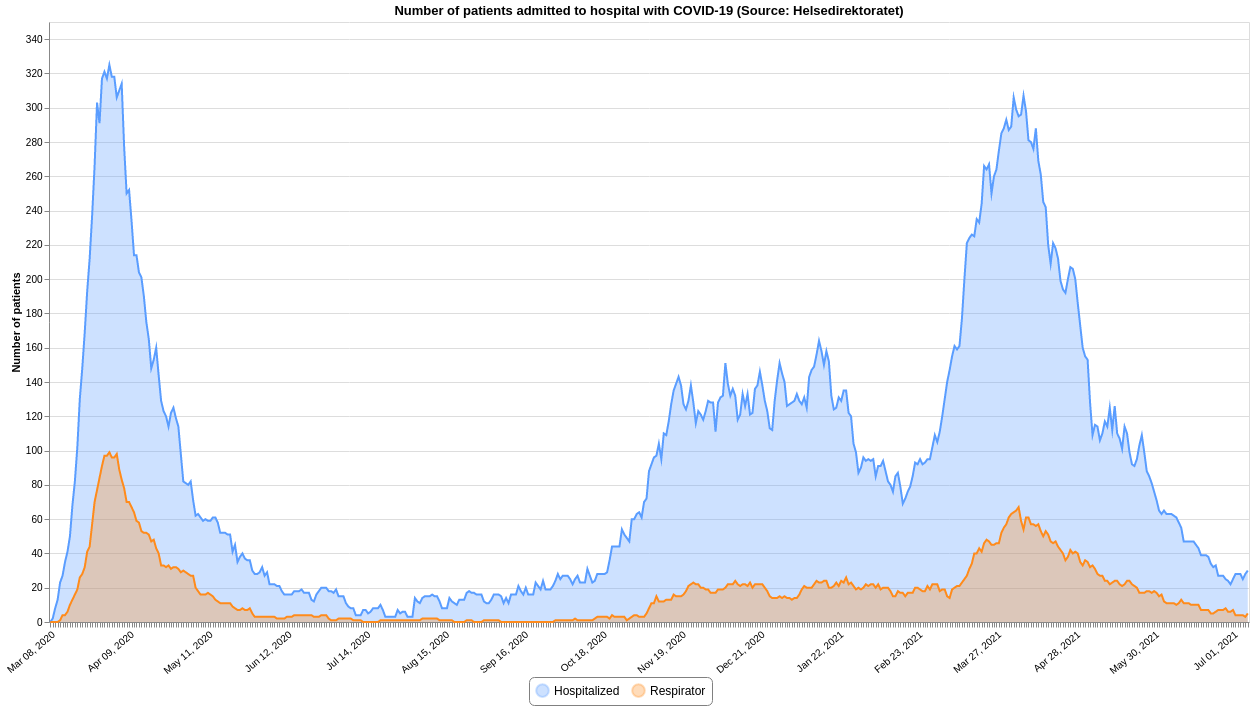
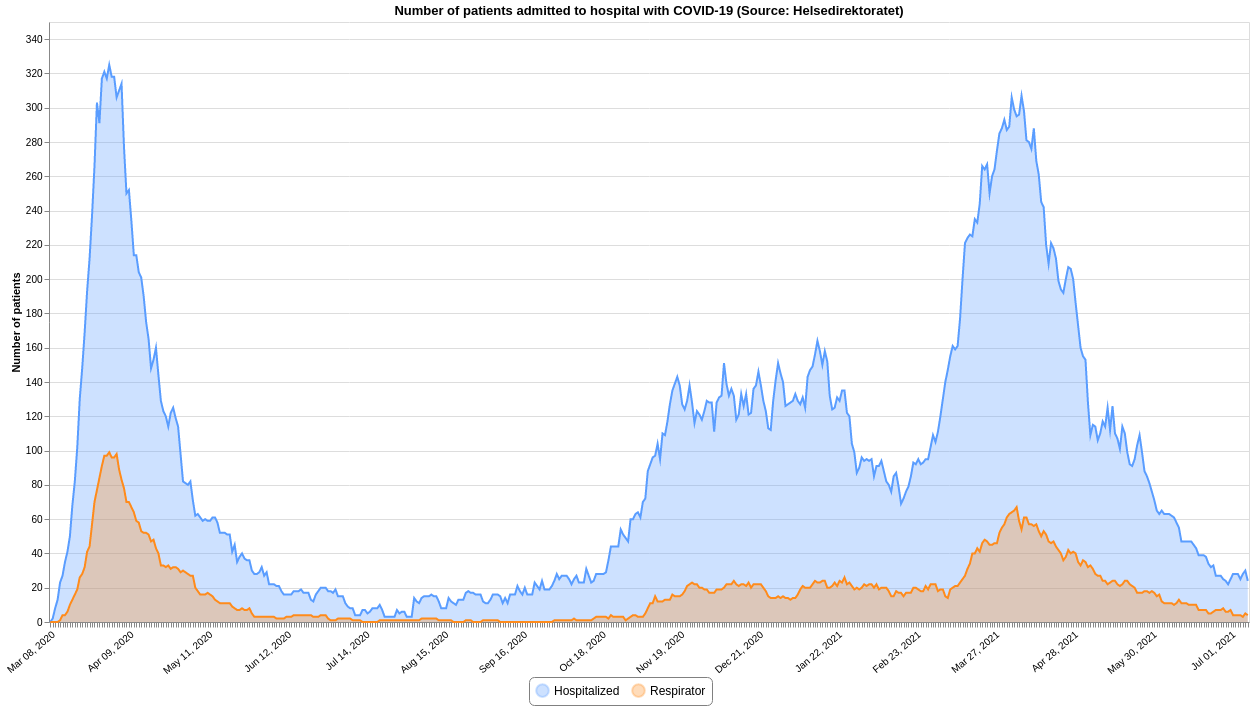
Updated 2021-07-08 13:11

diff --git a/README.md b/README.md
@@ -12,7 +12,7 @@ This repository contains datasets of daily time-series data related to COVID-19 
 | :--- | :--- | :--- | :--- | :--- |
 |[Confirmed](#confirmedcsv)|FHI / MSIS|2021-07-08 00:10:47+02:00|[<center>csv</center>](https://raw.githubusercontent.com/frefrik/covid19norge-data/main/data/confirmed.csv)|[<center>preview</center>](data/confirmed.csv)|
 |[Dead](#deadcsv)|FHI|2021-07-07 13:20:59+02:00|[<center>csv</center>](https://raw.githubusercontent.com/frefrik/covid19norge-data/main/data/dead.csv)|[<center>preview</center>](data/dead.csv)|
-|[Hospitalized](#hospitalizedcsv)|Helsedirektoratet|2021-07-07 12:50:48+02:00|[<center>csv</center>](https://raw.githubusercontent.com/frefrik/covid19norge-data/main/data/hospitalized.csv)|[<center>preview</center>](data/hospitalized.csv)|
+|[Hospitalized](#hospitalizedcsv)|Helsedirektoratet|2021-07-08 13:10:47+02:00|[<center>csv</center>](https://raw.githubusercontent.com/frefrik/covid19norge-data/main/data/hospitalized.csv)|[<center>preview</center>](data/hospitalized.csv)|
 |[Tested](#testedcsv)|FHI|2021-07-08 13:00:50+02:00|[<center>csv</center>](https://raw.githubusercontent.com/frefrik/covid19norge-data/main/data/tested.csv)|[<center>preview</center>](data/tested.csv)|
 |[Tested Lab](#tested_labcsv)|FHI|2021-07-07 13:20:55+02:00|[<center>csv</center>](https://raw.githubusercontent.com/frefrik/covid19norge-data/main/data/tested_lab.csv)|[<center>preview</center>](data/tested_lab.csv)|
 |[Transport](#transportcsv)|FHI|2021-07-07 14:50:48+02:00|[<center>csv</center>](https://raw.githubusercontent.com/frefrik/covid19norge-data/main/data/transport.csv)|[<center>preview</center>](data/transport.csv)|
